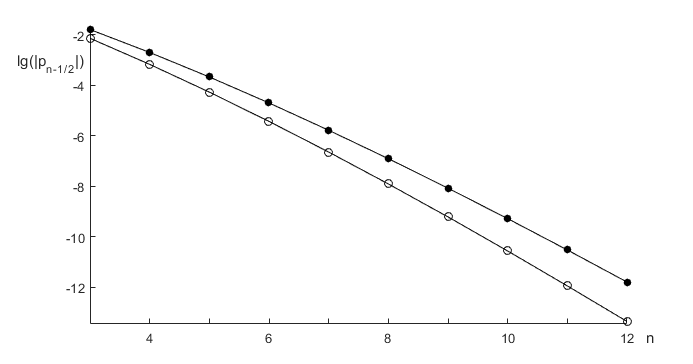
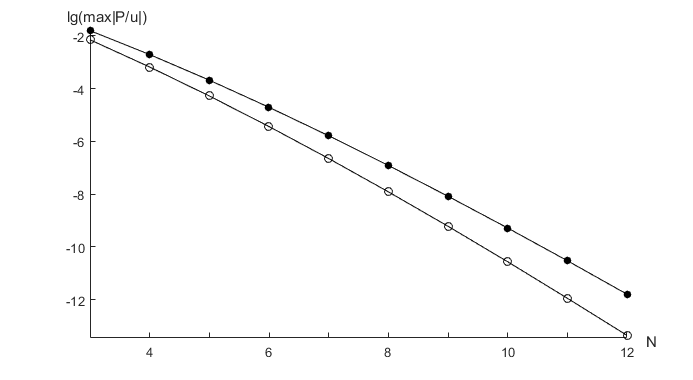
Актуализация рисунков для препринта

diff --git a/matlab/autoGridShift/exp_x/polinom/plots.m b/matlab/autoGridShift/exp_x/polinom/plots.m
@@ -35,7 +35,7 @@ delta_final = [
 log_delta_start = log10(delta_start);
 log_delta_final = log10(delta_final);
 figure, hold on
-xlabel('n'); ylabel('lg(|p_n_-_1_/_2|)');
+xlabel('N'); ylabel('lg(max|P/u|)');
 plot(N, log_delta_start, 'k.-', 'MarkerSize', 20);
 plot(N, log_delta_final, 'k-o');
 axis([N(1) N(end) log_delta_final(end)-0.1 log_delta_start(1)+0.1]);
@@ -45,4 +45,4 @@ iterations = [6 8 10 12 14 17 19 21 23 22];
 
 figure, hold on
 plot(N, iterations, 'k.-', 'MarkerSize', 20);
-xlabel('n'); ylabel('it');
+xlabel('N');

diff --git a/matlab/autoGridShift/u=0/plots.m b/matlab/autoGridShift/u=0/plots.m
@@ -229,5 +229,5 @@ plot(grid_init, y_value, 'k.-', 'MarkerSize', 20)
 %axis([-1 1 -0.5 +0.5]);
 
 %subplot(2,1,2);
-plot(grid_final, y_value-0.001, 'k.-', 'MarkerSize', 20)
+plot(grid_final, y_value-0.001, 'ko-', 'MarkerSize', 8)
 axis([0 1 -0.0015 +0.0005]);
